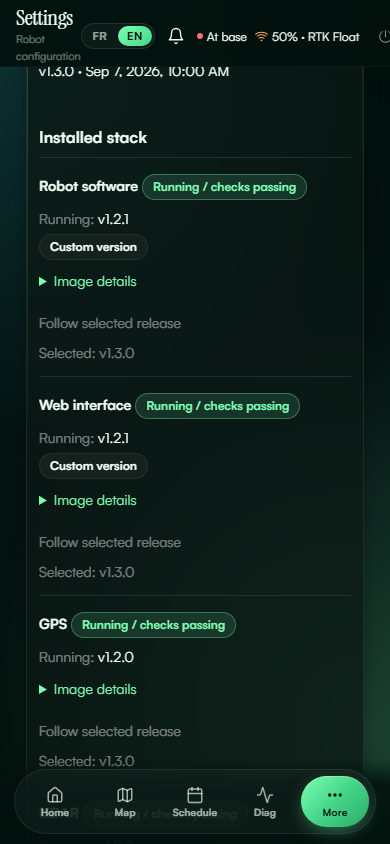
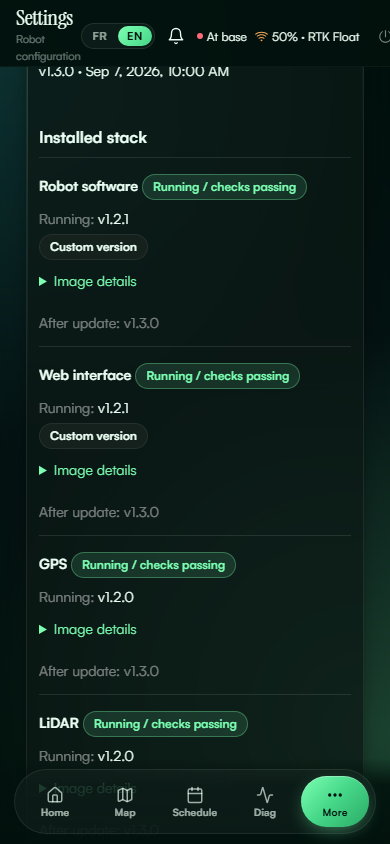
docs: refresh updater screenshots with clearer target versions

Changed region(s): [[0.0923, 0.3697, 0.7692, 0.955]]

diff --git a/screenshots/UPDATER-README.md b/screenshots/UPDATER-README.md
@@ -23,3 +23,6 @@ on the Home page (desktop 1440x1000, mobile 390x844). They simulate an upstream
 Production v1.3.0 deployment notice and updater notice, not live availability.
 The mobile panel is kept within the viewport; Open Updates navigates to settings
 without checking remotely or installing. Total current PR screenshots: 32.
+
+All 32 current screenshots were refreshed after the Simple-mode wording change:
+Running / After update. Follow selected release remains an Advanced selector.
